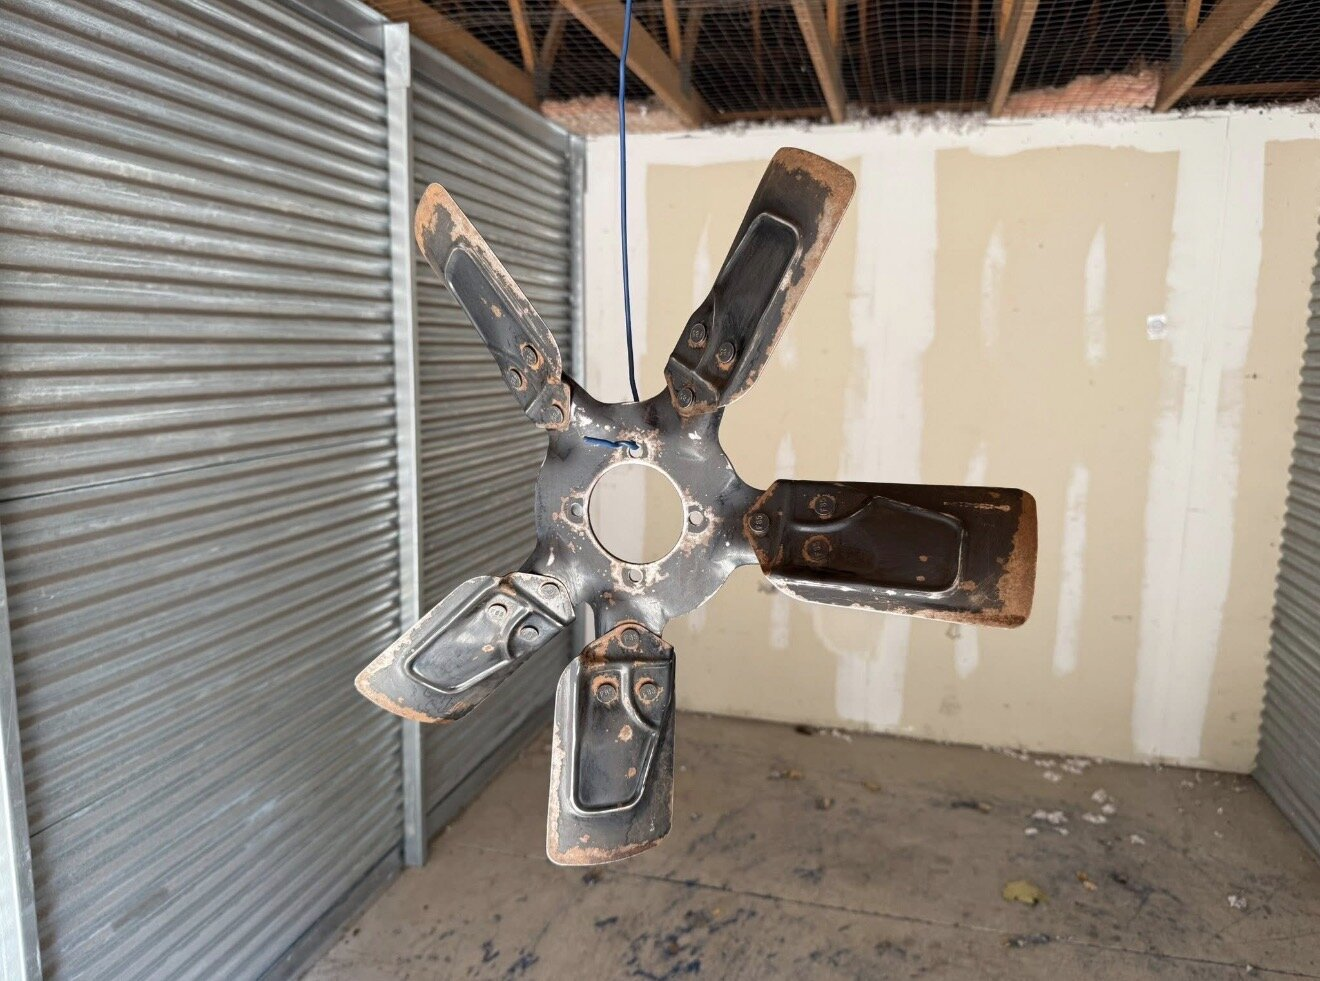
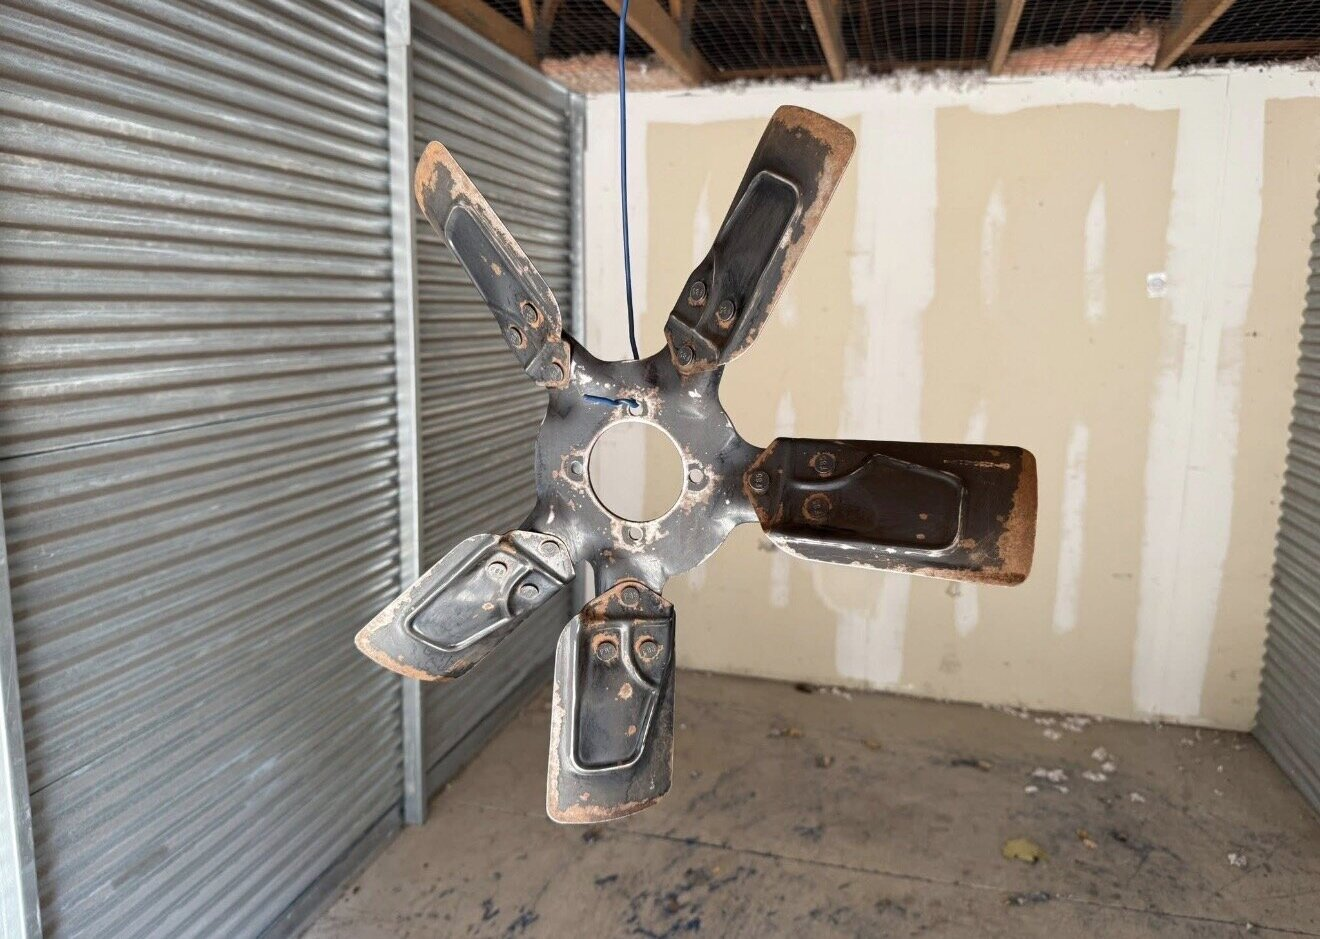
Logs: crop Aug 14 hanging fan so pair bottoms align

diff --git a/simple-site/logs/index.html b/simple-site/logs/index.html
@@ -512,8 +512,8 @@
         <div class="log-pair">
           <img
             class="zoomable"
-            src="../assets/logs/2025-08-14-02.jpg?v=2"
-            data-full="../assets/logs/2025-08-14-02.jpg?v=2"
+            src="../assets/logs/2025-08-14-02.jpg?v=3"
+            data-full="../assets/logs/2025-08-14-02.jpg?v=3"
             alt="Five-blade fan before the brush-and-paint job — tap to enlarge"
             width="1600"
             height="1200"
